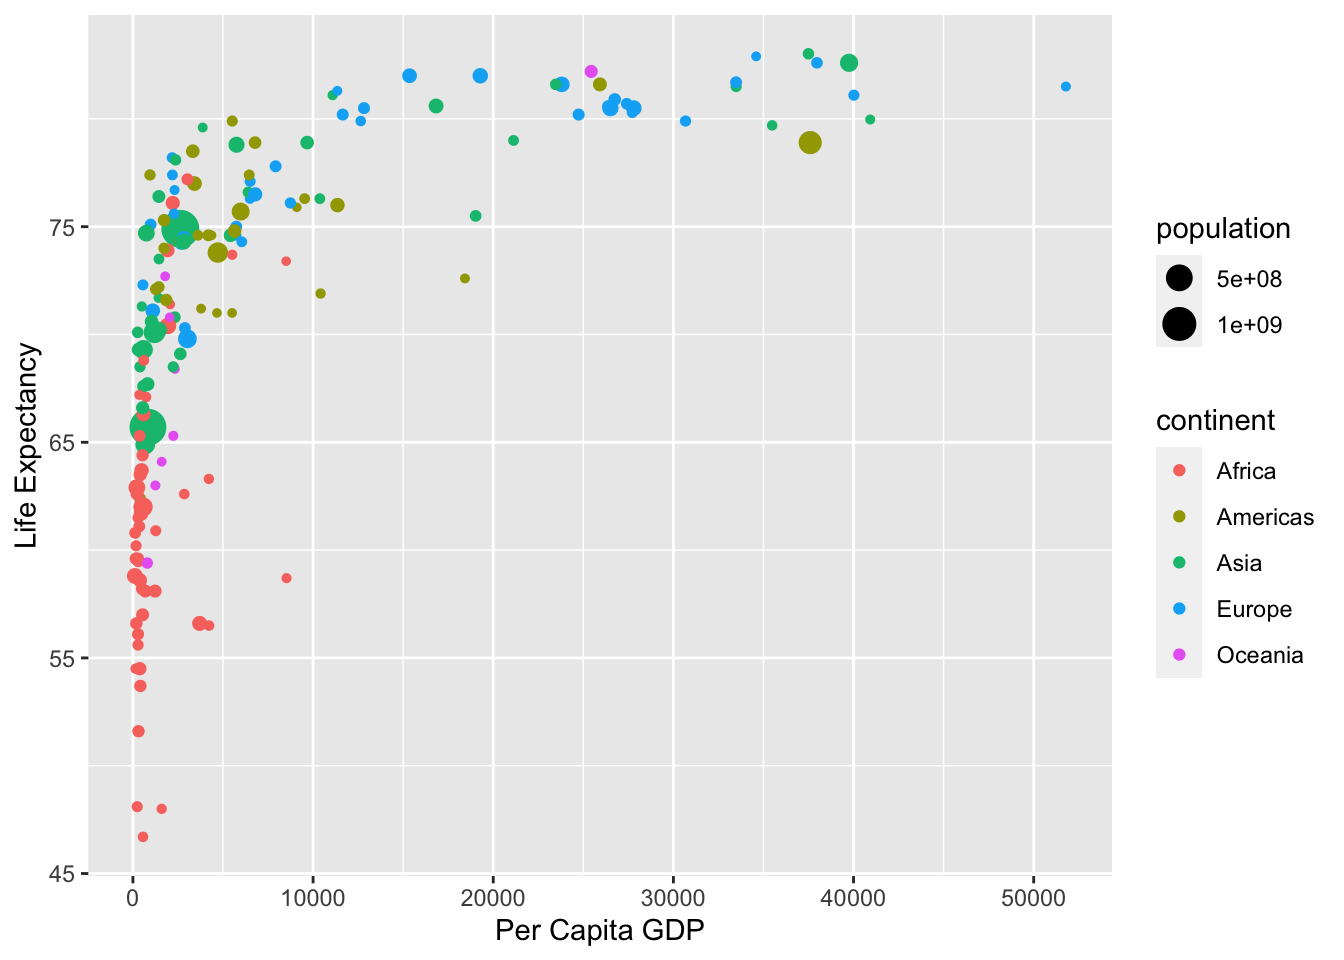
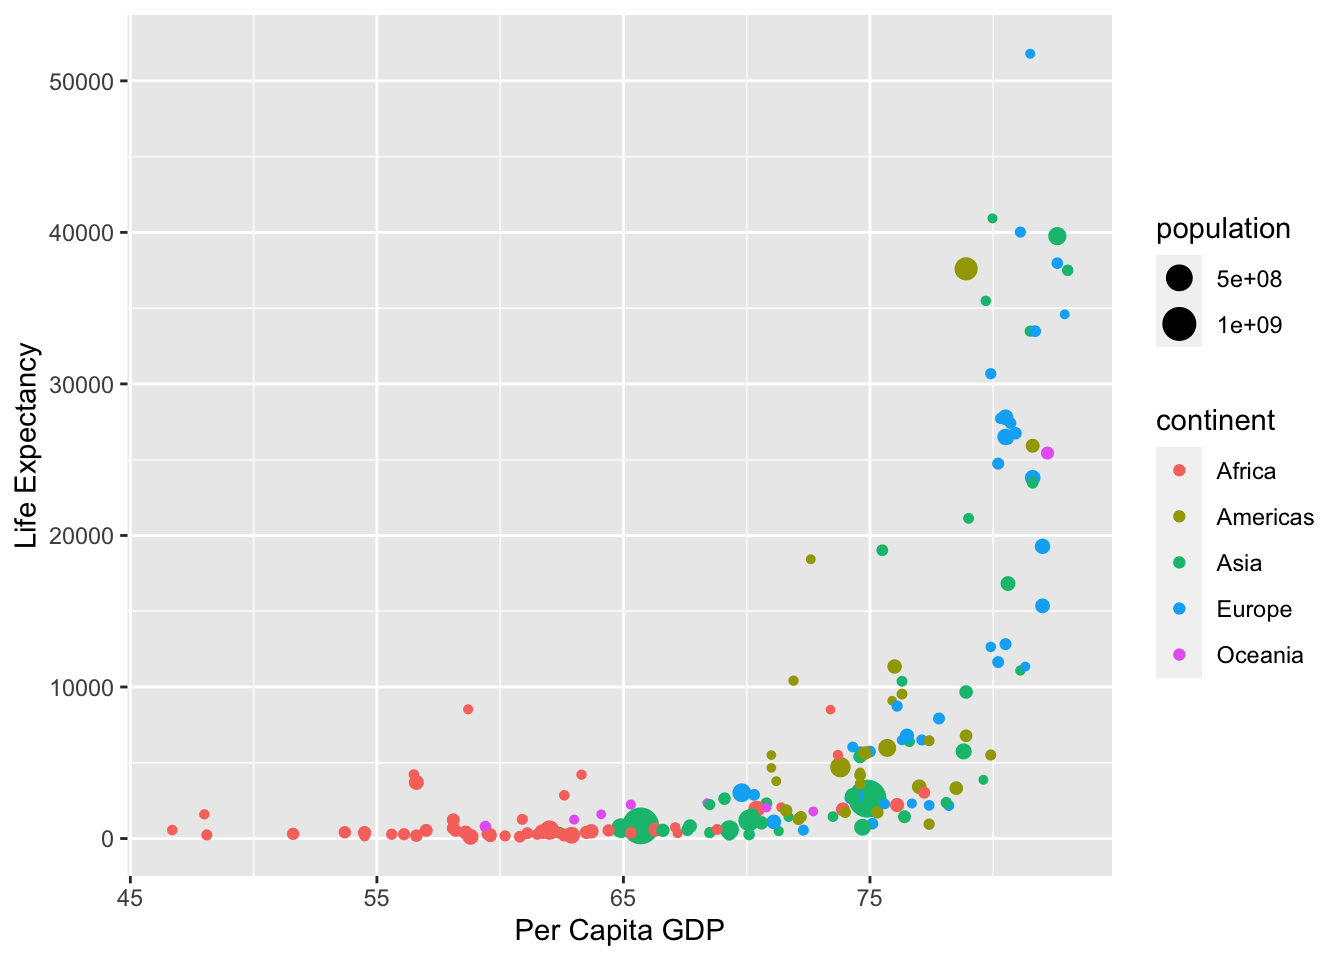
life exp edit

diff --git a/life_expectancy.html b/life_expectancy.html
@@ -317,14 +317,17 @@ $(document).ready(function () {
 </div>
 
 
-<div id="life-expectancy-data-explore" class="section level2">
-<h2>Life Expectancy Data Explore</h2>
-<pre class="r"><code>ggplot(data=gap2011, aes(x=gdp/population, y=life_expectancy, size=population, color=continent)) +
+<div id="life-expectancy-v-per-capita-gdp" class="section level3">
+<h3>Life Expectancy v Per Capita GDP</h3>
+<pre class="r"><code>ggplot(data=gap2011, aes(x=life_expectancy, y=gdp/population, size=population, color=continent)) +
   geom_point() +
   xlab(&quot;Per Capita GDP&quot;) +
   ylab(&quot;Life Expectancy&quot;)</code></pre>
 <pre><code>## Warning: Removed 17 rows containing missing values (geom_point).</code></pre>
 <p><img src="life_expectancy_files/figure-html/unnamed-chunk-3-1.png" width="672" /></p>
+</div>
+<div id="life-expectancy-per-continent" class="section level3">
+<h3>Life Expectancy Per Continent</h3>
 <pre class="r"><code>ggplot(data = gap2011, aes(x = continent, y = life_expectancy)) +
   geom_boxplot(aes(color=continent)) +
   xlab(&quot;Continent&quot;) +
